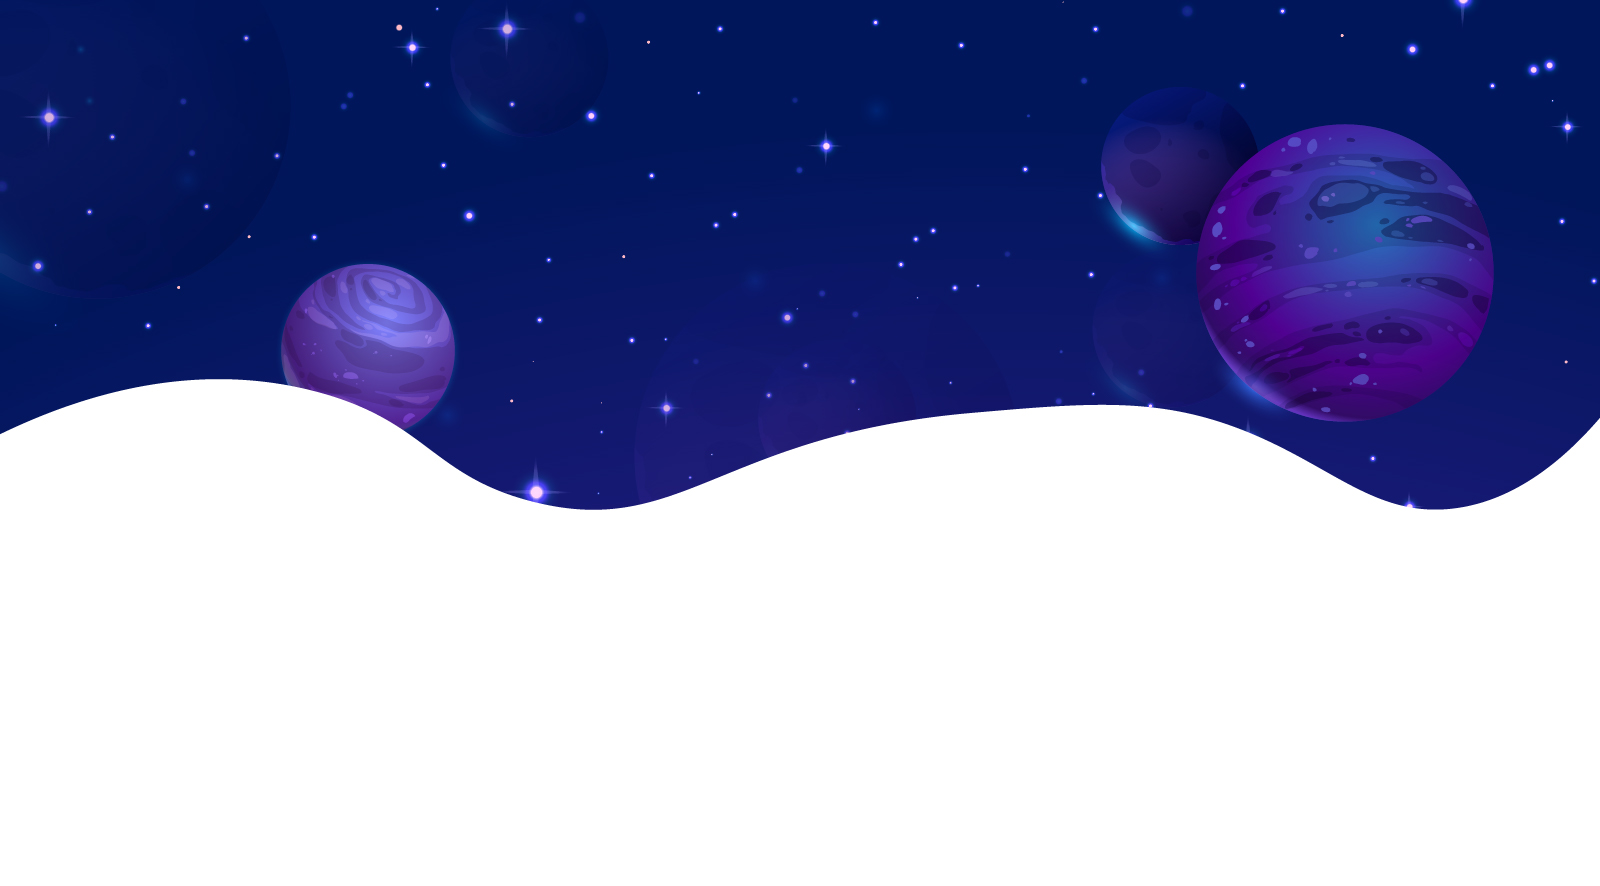
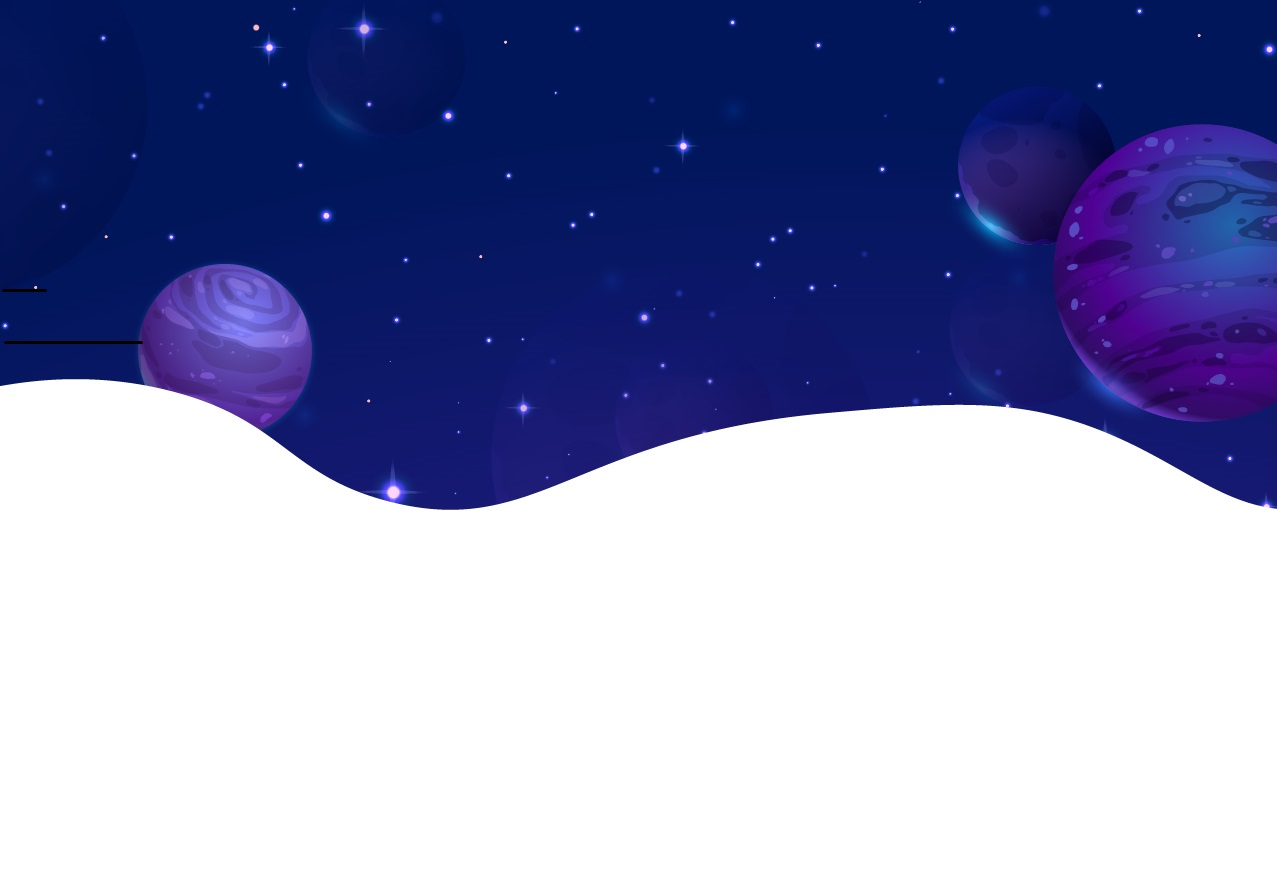
Backend work

diff --git a/src/Pages/HiringPages/Order_editing.jsx b/src/Pages/HiringPages/Order_editing.jsx
@@ -2,17 +2,18 @@
 
 import { useState,useEffect } from 'react';
 import style from '../../CSS/Style.module.css'
-import { NavLink, useNavigate } from 'react-router-dom'
+import { NavLink, useNavigate, useParams } from 'react-router-dom'
 import axios from 'axios';
 
 function Order_editing() {
-    
+       const param = useParams()
        const navigate = useNavigate()  
 
      const [pageCount,setPageCount] = useState(1)
      const date = new Date();
-   
+  
      const month = ["January","February","March","April","May","June","July","August","September","October","November","December"];
+     
      const [months,setmonth] = useState(date.getMonth())
      const [day,setDate] = useState(date.getDate()+1)
      const [year,setYear] = useState(date.getFullYear())
@@ -28,6 +29,7 @@ function Order_editing() {
      }
      const [images,setImages] = useState(null)
      const [orderEditinData,setOrderEditingData] = useState({
+      title:param.title,
        subject:"",
         instruction:"",     
        deadline:"2024-07-01T11:35",
@@ -40,6 +42,7 @@ function Order_editing() {
    formdata.append('deadline',orderEditinData.deadline)
    formdata.append('pageCount',orderEditinData.pageCount)
    formdata.append('attachment',images)
+   formdata.append('title',orderEditinData.title)
 
 
  console.log(images)
@@ -57,9 +60,9 @@ function Order_editing() {
         await axios.post('/api/orderediting',formdata)
         .then((res)=>{
           if(res.status === 200){
-               const text="Are you sure";
+               const text="Data Save Sucessfully";              
                if(confirm(text)){
-                    navigate('/personaldetail')
+                    navigate(`/personaldetail/${res.data.Data._id}`)
                }
           }
         }).catch((err)=>{

diff --git a/src/Pages/HiringPages/Order_writing.jsx b/src/Pages/HiringPages/Order_writing.jsx
@@ -1,14 +1,14 @@
 /* eslint-disable react/no-unescaped-entities */
 import { useEffect, useState } from 'react';
 import style from '../../CSS/Style.module.css'
-import { NavLink, useNavigate } from 'react-router-dom'
+import { NavLink, useNavigate, useParams } from 'react-router-dom'
 import axios from 'axios'
 function Order_writing() {
-
+const param = useParams()
 const navigate = useNavigate()
   const [pageCount,setPageCount] = useState(1)
   const date = new Date();
-
+console.log(param)
   const month = ["January","February","March","April","May","June","July","August","September","October","November","December"];
   const [months,setmonth] = useState(date.getMonth())
   const [day,setDate] = useState(date.getDate()+1)
@@ -26,6 +26,7 @@ const navigate = useNavigate()
   }
   const [attachment,setAttachment] = useState(null)
   const [orderEditinData,setOrderEditingData] = useState({
+    title:param.title,
     subject:"",
      instruction:"",
     typeofpaper:"",
@@ -42,13 +43,16 @@ formdatatosend.append('others',orderEditinData.others)
 formdatatosend.append('deadline',orderEditinData.deadline)
 formdatatosend.append('pageCount',orderEditinData.pageCount)
 formdatatosend.append('attachment',attachment)
+formdatatosend.append('title',orderEditinData.title)
 const [selectother,setSelectother] = useState(false)
 
 async function onSubmitData () {
  await axios.post('/api/orderwriting',formdatatosend)
  .then((res)=>{
-  if(res.status === 200){
-    navigate('/personaldetail')
+   const text="Data Save Sucessfully";
+   console.log(res.data)              
+  if(confirm(text)){
+       navigate(`/personaldetail/${res.data.Data._id}`)
   }
  })
  .catch((err)=>{

diff --git a/src/Pages/Services/ServicesDataPages.js b/src/Pages/Services/ServicesDataPages.js
@@ -1,3 +1,8 @@
+import Disseratation from '../../assets/Dissertation.png'
+import Termspaper from '../../assets/Terms_papers.png'
+import writeEssay from '../../assets/Write_my_essay.png'
+import writers_hiring from '../../assets/writers_hiring.png'
+
 export const ServicesDataPages = [
   {
     id: 1,
@@ -32,8 +37,7 @@ export const ServicesDataPages = [
           " Our friendly support team is always available to assist you.",
       },
     ],
-    image:
-      "https://assignmentserviceaustralia.com/static/media/programming_banner.90ea545a707e39c3c042.png",
+    image:writeEssay,
   },
   {
     id: 2,
@@ -69,8 +73,7 @@ export const ServicesDataPages = [
           "Polished, error-free dissertations that meet all academic requirements.",
       },
     ],
-    image:
-      "https://assignmentserviceaustralia.com/static/media/programming_banner.90ea545a707e39c3c042.png",
+    image:Disseratation,
   },
   {
     id: 3,
@@ -108,8 +111,7 @@ export const ServicesDataPages = [
           "Your privacy is our priority. Your information is safe with us.",
       },
     ],
-    image:
-      "https://assignmentserviceaustralia.com/static/media/programming_banner.90ea545a707e39c3c042.png",
+    image:writers_hiring,
   },
 
   {
@@ -148,8 +150,7 @@ export const ServicesDataPages = [
           "We respect your deadlines and deliver your term paper on time.",
       },
     ],
-    image:
-      "https://assignmentserviceaustralia.com/static/media/programming_banner.90ea545a707e39c3c042.png",
+    image:Termspaper,
   },
   
  

diff --git a/src/App.jsx b/src/App.jsx
@@ -25,10 +25,10 @@ function App() {
            <Route path='/contact-us' element={<Contact_us/>}/>
            <Route path='/order' element={<HireClick/>}/>
            <Route path='/blogs' element={<Ourblogs/>}/>
-           <Route path='/order-writing' element={<Order_writing/>}/>
+           <Route path='/orderswriting/:title' element={<Order_writing/>}/>
            <Route path='/order-technical' element={<Order_Technical/>}/>
-           <Route path='/order-editing' element={<Order_editing/>}/>
-            <Route path='/personaldetail' element={<HiringDetailForm/>}/>
+           <Route path='/ordersediting/:title' element={<Order_editing/>}/>
+            <Route path='/personaldetail/:name' element={<HiringDetailForm/>}/>
            <Route path='/order-technical/personaldetail' element={<HiringDetailForm/>}/>
            <Route path='/order-writing/personaldetail' element={<HiringDetailForm/>}/>
            <Route path='/Services/:Link' element={<Serviceshome/>} />

diff --git a/src/Pages/HireWriter/HireClick.jsx b/src/Pages/HireWriter/HireClick.jsx
@@ -6,20 +6,20 @@ function HireClick() {
   const [writing, setWriting] = useState(true);
   const [editing, setEditing] = useState(false);
   // const [technical, setTechnical] = useState(false);
-  const [Link,setLink] = useState('/order-writing')
+  const [Link,setLink] = useState('/orderswriting/order_writing')
   const handleSelect = (name) =>{
     console.log(name)
        if(name === "writing"){
         setWriting(true)
         setEditing(false)
         // setTechnical(false)
-        setLink('/order-writing')
+        setLink('/orderswriting/order_writing')
        }
        else if(name === "editing"){
         setWriting(false)
         setEditing(true)
         // setTechnical(false)
-        setLink('/order-editing')
+        setLink('/ordersediting/order_editing')
        }
       //  else if(name === "technical"){
       //   setWriting(false)

diff --git a/src/Pages/HireWriter/HiringDetailForm.jsx b/src/Pages/HireWriter/HiringDetailForm.jsx
@@ -2,14 +2,17 @@ import 'react-phone-input-2/lib/style.css'
 import PhoneInput from "react-phone-input-2";
 import countryList from 'react-select-country-list'
 import { useMemo, useState } from 'react';
-import { useNavigate } from 'react-router-dom';
+import { useNavigate, useParams } from 'react-router-dom';
 import axios from 'axios'
 import style from '../../CSS/Style.module.css'
 function HiringDetailForm() {
+     const param = useParams();
       const navigate = useNavigate()
       const options = useMemo(() => countryList().getData(), [])
+      console.log(param)
     const [inputData,setInputData] = useState(
         {
+          orderid:param.name,
          firstname:"",
          lastname:"",
          email:"",

diff --git a/src/CSS/Style.module.css b/src/CSS/Style.module.css
@@ -241,6 +241,9 @@
    position: absolute;
    background-repeat: no-repeat;
    background-size:auto;
+   height: auto;
+   background-size: cover;
+   object-fit: cover;
    right: 0;
     bottom:0;
      left: 0;
@@ -248,7 +251,7 @@
     bottom: 0;
     z-index: -1;
     background-image: url('../assets/wave.jpg');
-  
+
  }
 .radio{
    width: 16px;
